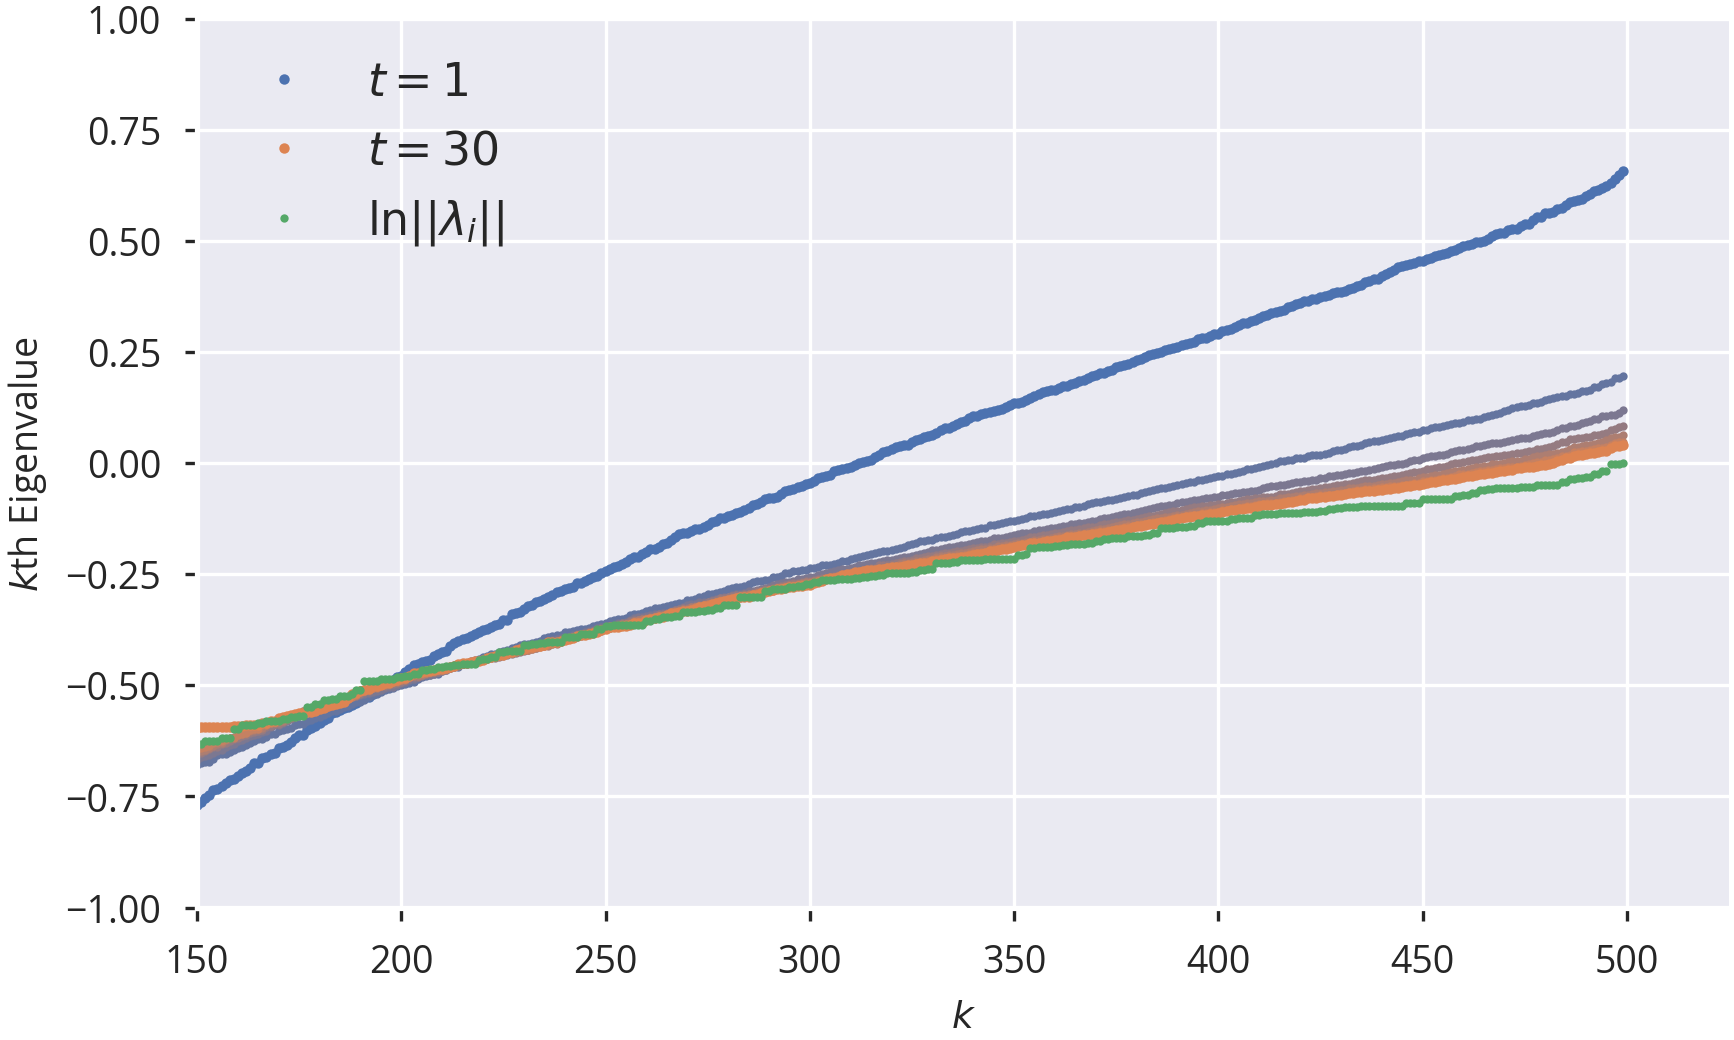
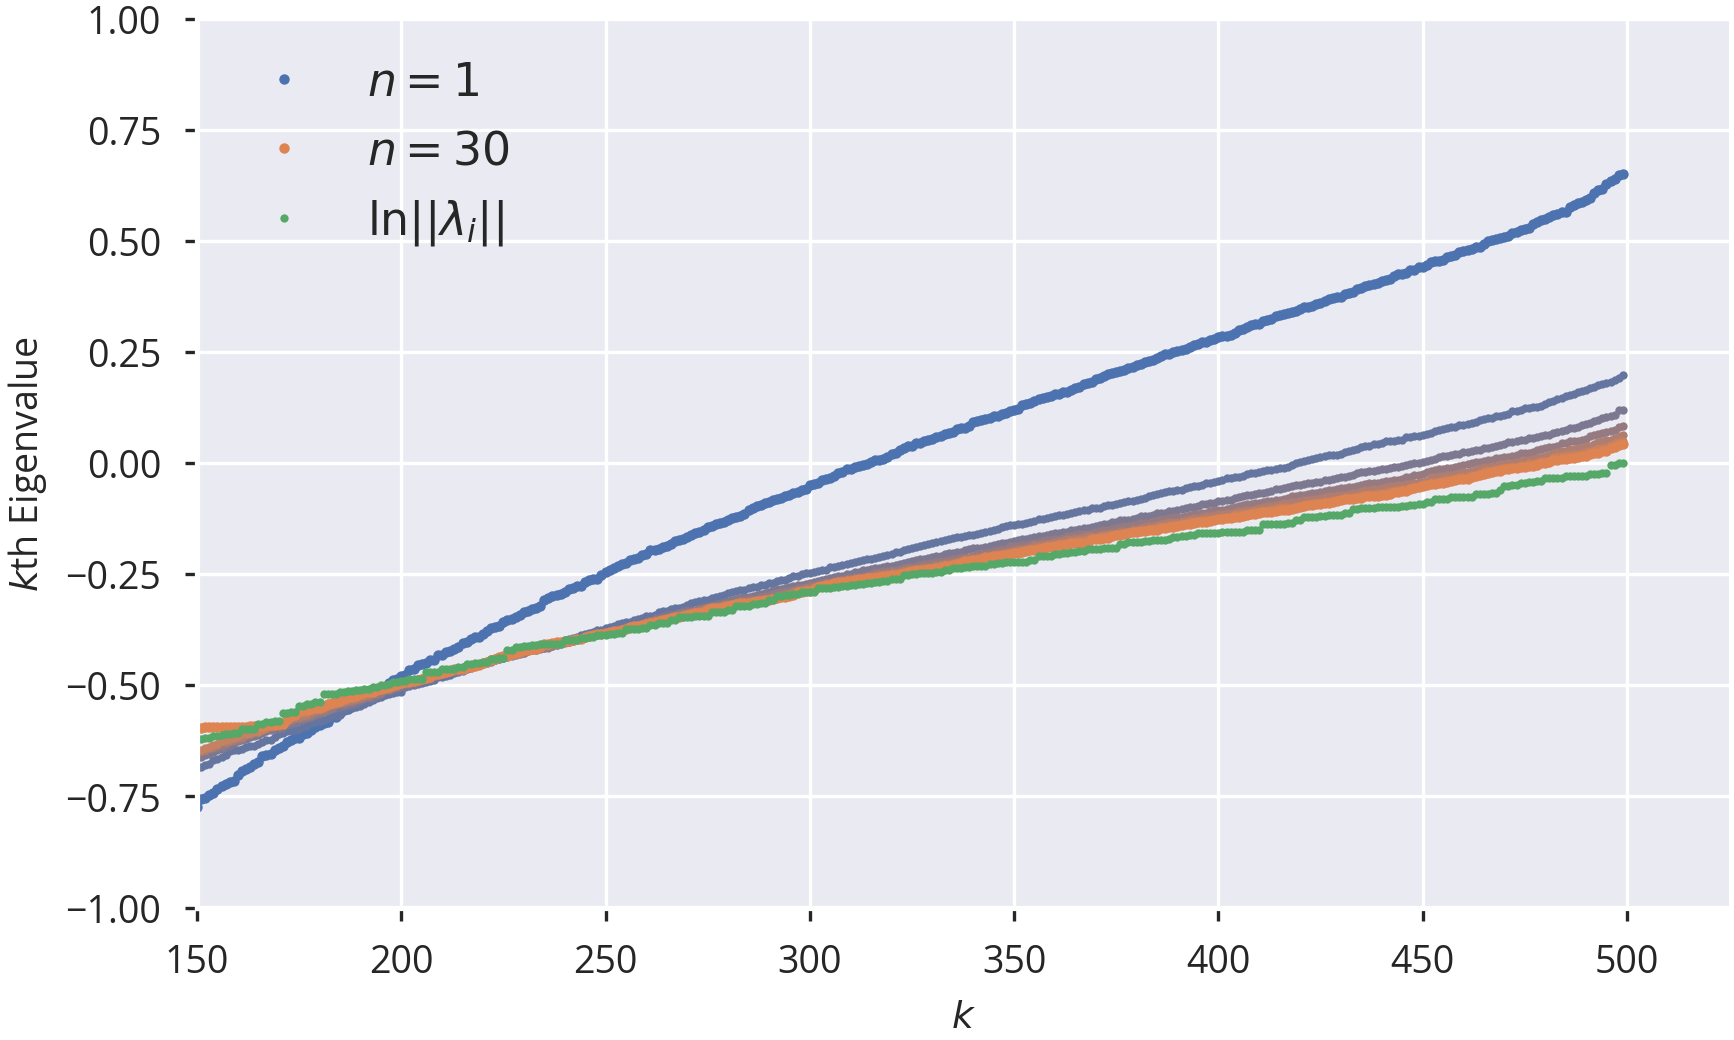
.

diff --git a/code/ESN_code/plotting/plot_lyap_exp_conv.py b/code/ESN_code/plotting/plot_lyap_exp_conv.py
@@ -55,7 +55,7 @@ for k,T in enumerate(t):
     col = np.array(colors[0])*(nt-1-k)/(nt-1) + np.array(colors[1])*k/(nt-1)
     if k==0 or k==nt-1:
         ax.plot(sigm_squ[k,:],'.',c=col,
-        label="$t="+str(T)+"$",markersize=5)
+        label="$n="+str(T)+"$",markersize=5)
     else:
         ax.plot(sigm_squ[k,:],'.',c=col,markersize=4)
 
